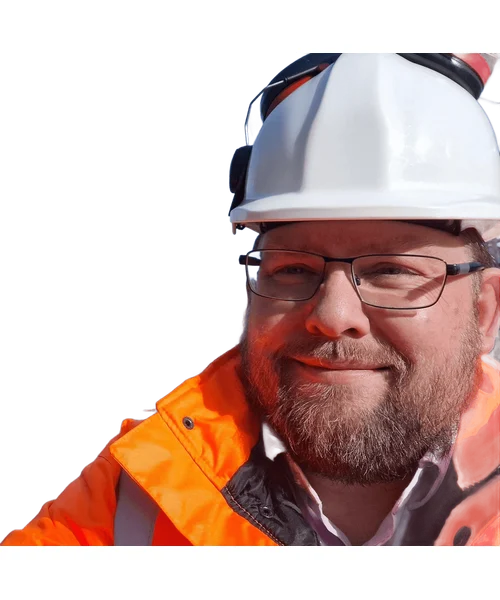
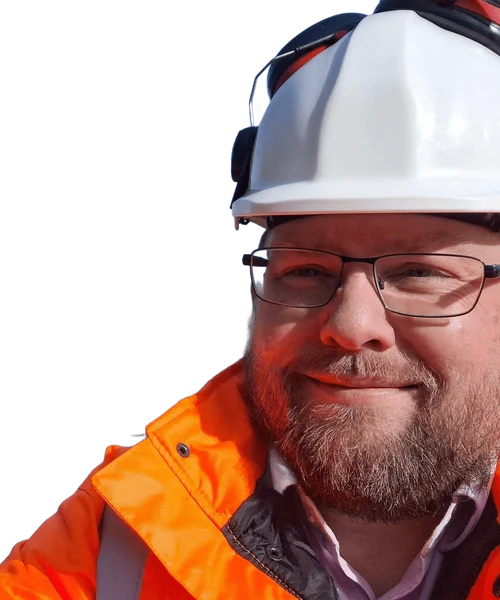
results video card fits laptop; photos recentered; Mani + Sana hidden on mobile
Results (video) slider desktop cap tightened 880 → 640px so the 16:9
video + text card fits inside a laptop viewport in one glance.

Photos rerun with cover fit + explicit centering so subjects fill the
card edge-to-edge:
- Steve — extract shifted right, cover-fit so he fills the frame
  centered (was drifting right previously)
- Andrew — wider pre-crop (22..98%) + cover, whole face + shoulders
  visible and centered
- Sana — wider graphic extract + cover, she fills the card centered
  instead of drifting left
- Jaz — full-width landscape crop + 1:1 output so both faces + medals
  sit centered without George getting clipped
- Reece — tighter extract around the pair (removed most of the crowd)
  so he + George fill the frame

Long-quote cards (Mani Konkon + Sana Ali) hidden on mobile via a new
desktopOnly flag → slide-desktop-only class → display: none below
820px. Both stay in the desktop swipe deck. Reece stays on both.

diff --git a/app/page.tsx b/app/page.tsx
@@ -21,6 +21,7 @@ type Result = {
 type Quote = {
   photo: string;
   wide?: boolean;
+  desktopOnly?: boolean;
   name: string;
   role: string;
   metric: string;
@@ -112,7 +113,7 @@ const QUOTES: Quote[] = [
   { photo: "/images/reece.webp", wide: true, name: "Reece", role: "Maxillofacial dentist",
     metric: "16.5 lbs lost in four months · first-ever half marathon in 1h 49m",
     quote: "First half marathon four months in. Something I never thought I could do." },
-  { photo: "/images/mani-konkon.webp", name: "Mani Konkon", role: "Finance Director",
+  { photo: "/images/mani-konkon.webp", desktopOnly: true, name: "Mani Konkon", role: "Finance Director",
     metric: "Years of failed attempts, finally sustainable",
     quote: "It became apparent quickly why my years had not been successful. George's focus on a sustainable plan and execution has led to the biggest win for me, which is a shift in mentality around weight loss and healthy living." },
   { photo: "/images/jaz.webp", wide: true, name: "Jaz", role: "Property business owner",
@@ -124,7 +125,7 @@ const QUOTES: Quote[] = [
   { photo: "/images/lukman.webp", name: "Lukman", role: "Dentist",
     metric: "WHOOP stress reading hit zero for the first time",
     quote: "The thing that would have wrecked a week became a conversation." },
-  { photo: "/images/sana-ali.webp", name: "Sana Ali", role: "Consultant Paediatric Radiologist",
+  { photo: "/images/sana-ali.webp", desktopOnly: true, name: "Sana Ali", role: "Consultant Paediatric Radiologist",
     metric: "Health as complete physical, mental and social wellbeing — the whole picture",
     quote: "One of the first things I was ever taught at medical school was the World Health Organisation's definition of health, which is that 'health is a state of complete physical, mental and social wellbeing and not merely the absence of disease or infirmity'. George's coaching style and training programme truly encompasses this, and that is why I love it so much." },
   { photo: "", name: "Commercial Director", role: "Name withheld by request",
@@ -603,7 +604,7 @@ export default function Page() {
             </div>
             <Slider count={QUOTES.length} trackClassName="track-q">
               {QUOTES.map((q, i) => (
-                <article className={`slide${q.photo ? "" : " slide-nopic"}`} key={i}>
+                <article className={`slide${q.photo ? "" : " slide-nopic"}${q.desktopOnly ? " slide-desktop-only" : ""}`} key={i}>
                   <div className="qc-media">
                     {q.photo && (
                       <div className={`qc-photo${q.wide ? " qc-photo-wide" : ""}`}>

diff --git a/app/globals.css b/app/globals.css
@@ -155,9 +155,10 @@ iframe.emb { width: 100%; aspect-ratio: 16/9; border: 0; display: block; }
 .track { display: flex; gap: 22px; overflow-x: auto; scroll-snap-type: x mandatory; scroll-behavior: smooth; padding-bottom: 8px; -ms-overflow-style: none; scrollbar-width: none; -webkit-overflow-scrolling: touch; }
 .track::-webkit-scrollbar { display: none; }
 .slide { flex: 0 0 88%; scroll-snap-align: start; background: #fff; border: 1px solid var(--border); display: flex; flex-direction: column; }
-/* Results (video) slider desktop: one card per view, capped ~880px */
+/* Results (video) slider desktop: one card per view, sized so video + text
+   fits on a laptop screen without scroll. 640px slide = ~360px 16:9 video. */
 @media (min-width: 820px) {
-  .track:not(.track-q) { max-width: 880px; margin-left: auto; margin-right: auto; }
+  .track:not(.track-q) { max-width: 640px; margin-left: auto; margin-right: auto; }
   .track:not(.track-q) .slide { flex: 0 0 100%; }
 }
 .dots { display: flex; gap: 7px; justify-content: center; margin-top: 22px; flex-wrap: wrap; }
@@ -213,6 +214,11 @@ iframe.emb { width: 100%; aspect-ratio: 16/9; border: 0; display: block; }
 @media (min-width: 820px) { .qc-quote { font-size: clamp(22px, 2.2vw, 28px); } }
 .qc-metric { margin-top: 16px; padding-top: 14px; border-top: 1px solid var(--border-dark); font-size: 15px; color: var(--gold); letter-spacing: .03em; line-height: 1.55; }
 @media (min-width: 820px) { .qc-metric { font-size: clamp(14px, 1.3vw, 16px); } }
+
+/* Long-quote cards hidden on mobile so users don't hit an oversized card */
+@media (max-width: 819px) {
+  .slide-desktop-only { display: none !important; }
+}
 
 /* Slide with no photo — single centered column, everything centered */
 .track-q .slide-nopic { flex-direction: column; }
